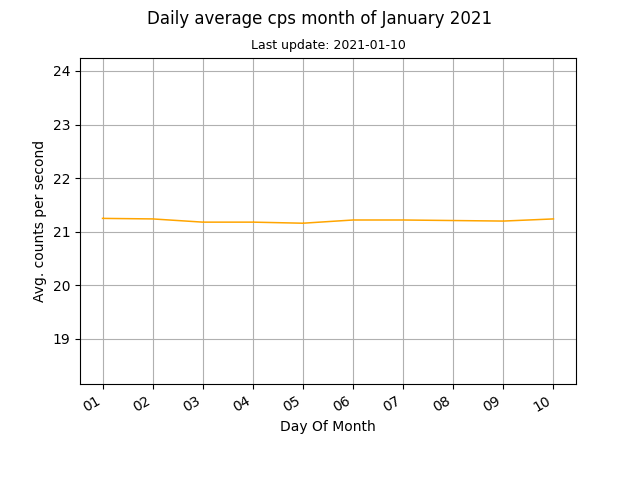
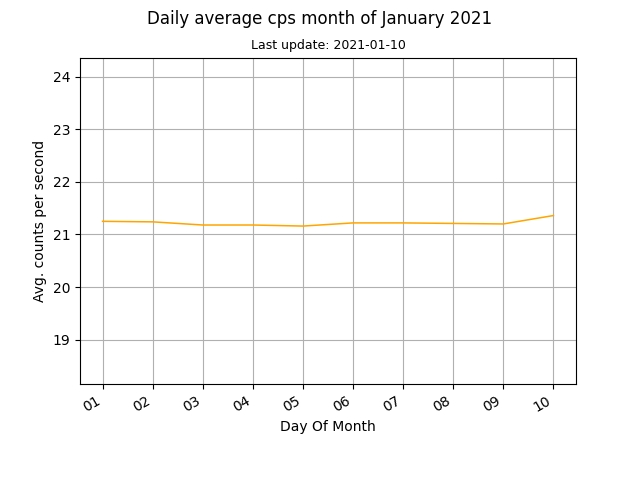
auto data update

diff --git a/docs/index.html b/docs/index.html
@@ -45,8 +45,8 @@
 	
 	<br>
 	
-	<p>Current counts per second (cps): 21.24</p>
-	<p>Last update: 2021-01-10, 00:05</p>
+	<p>Current counts per second (cps): 21.49</p>
+	<p>Last update: 2021-01-10, 00:20</p>
 
 	<p><a href="images/monthly.png"><img src="images/monthly.png" alt="Mothly avg cps data"></a><a href="images/daily.png"><img src="images/daily.png" alt="Daily avg cps data"></a></p>
 	
